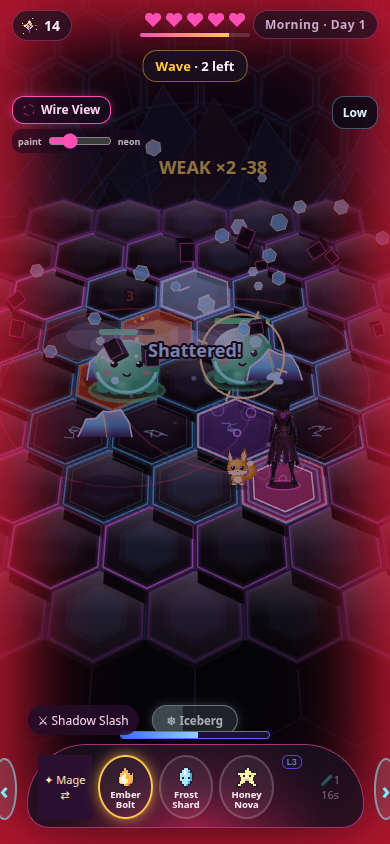
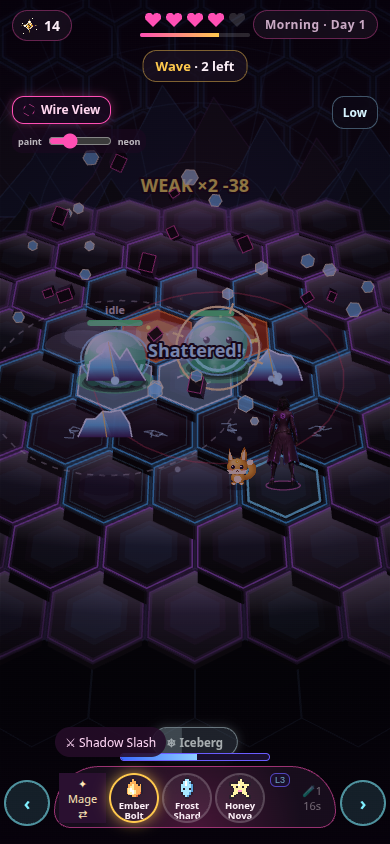
Keep dummy names beside the posts and the cast line off the ring
Wide screens stack each dummy's name and hit points beside the targets, off the rings, the banner, and the avatar. Portrait dodge chevrons stay on screen. The landscape cast line sits left of the decorative spell ring. A bullet line stays the gun telegraph and the player's aim, and the cell stays a reload cartridge.

diff --git a/v7/index.html b/v7/index.html
@@ -102,10 +102,10 @@ input[type=range]{accent-color:var(--pink);width:120px}
 #wheel{position:fixed;left:0;right:0;bottom:calc(16px + var(--sab));z-index:9;display:flex;justify-content:center;align-items:flex-end;gap:10px;pointer-events:none;transform:translateY(160px);transition:transform .45s cubic-bezier(.3,1.3,.5,1)}
 #wheel.on{transform:translateY(0)}
 #wheel>*{pointer-events:auto}
-.dodge{width:62px;height:62px;border-radius:50%;background:rgba(127,240,255,.12);border:2px solid rgba(127,240,255,.55);font-size:24px;font-weight:900;color:var(--cyan);margin-bottom:8px}
+.dodge{width:62px;height:62px;flex:none;border-radius:50%;background:rgba(127,240,255,.12);border:2px solid rgba(127,240,255,.55);font-size:24px;font-weight:900;color:var(--cyan);margin-bottom:8px}
 .dodge:active{background:rgba(127,240,255,.35)}
 #spells{display:flex;gap:6px;background:radial-gradient(circle at 50% 100%,rgba(255,79,180,.25),rgba(26,15,31,.85) 70%);border:1.5px solid rgba(255,79,180,.55);border-radius:60px 60px 22px 22px;padding:10px 10px 8px}
-.sp{position:relative;width:64px;height:64px;border-radius:50%;background:rgba(255,255,255,.06);border:2px solid rgba(255,255,255,.18);overflow:hidden;display:flex;flex-direction:column;align-items:center;justify-content:center;font-size:9.5px;font-weight:900;line-height:1.05}
+.sp{position:relative;width:64px;height:64px;flex:none;border-radius:50%;background:rgba(255,255,255,.06);border:2px solid rgba(255,255,255,.18);overflow:hidden;display:flex;flex-direction:column;align-items:center;justify-content:center;font-size:9.5px;font-weight:900;line-height:1.05}
 .sp img{width:26px;height:26px;image-rendering:pixelated;position:relative;z-index:1}
 .sp span{position:relative;z-index:1}
 .sp.on{border-color:var(--gold);box-shadow:0 0 14px rgba(255,201,77,.7)}
@@ -127,7 +127,14 @@ input[type=range]{accent-color:var(--pink);width:120px}
 #trainHud button.gold{background:linear-gradient(180deg,#ffd978,#f0a92e);color:#3a1d05;border:0}
 #trainHud button.on{background:#ff4fb4;border-color:#ff9ad2;color:#fff}
 #trainHelpBtn{flex:none !important;padding:7px 10px !important;font-size:12px !important;pointer-events:auto}
-#castFeed{position:fixed;left:10px;right:auto;transform:none;top:calc(258px + var(--sat));bottom:auto;z-index:14;max-width:68vw;pointer-events:none;background:rgba(12,6,16,.92);border:1px solid rgba(255,201,77,.75);border-radius:12px;padding:6px 12px;font-weight:900;font-size:14px;white-space:nowrap}
+#castFeed{position:fixed;left:10px;right:auto;transform:none;top:calc(258px + var(--sat));bottom:auto;z-index:14;max-width:68vw;pointer-events:none;background:rgba(12,6,16,.92);border:1px solid rgba(255,201,77,.75);border-radius:12px;padding:6px 12px;font-weight:900;font-size:14px;white-space:nowrap;overflow:hidden;text-overflow:ellipsis}
+@media (max-width:430px){
+  #wheel{gap:4px;padding:0 4px}
+  .dodge{width:46px;height:46px;font-size:18px;margin-bottom:2px}
+  #spells{gap:3px;padding:6px 4px 4px}
+  .sp{width:50px;height:50px}
+  #clsBtn,#wallLv,#manaPot{font-size:10px;padding:2px 4px}
+}
 @media (max-height:640px) and (max-width:500px){
   #trainHud .note{display:none}
   #trainHud{gap:3px}
@@ -144,7 +151,7 @@ input[type=range]{accent-color:var(--pink);width:120px}
   #trainHud{left:8px;top:44px;width:232px;gap:3px}
   #trainHud .note{display:none}
   #trainHud button{padding:4px 5px;font-size:11px;white-space:nowrap;line-height:1.15}
-  #castFeed{left:auto;right:8px;top:122px;bottom:auto;transform:none;max-width:34vw;font-size:12px;z-index:16}
+  #castFeed{left:8px;right:auto;top:132px;bottom:auto;transform:none;width:224px;max-width:224px;font-size:12px;line-height:1.25;white-space:normal;text-align:left;z-index:16}
   #wheel{gap:6px}
   .dodge{width:48px;height:48px;font-size:18px;margin-bottom:4px}
   .sp{width:52px;height:52px}
@@ -2462,7 +2469,8 @@ function hurtP(n, tick) {
   if (G.hp <= 0) { G.hp = G.maxHp; rewind(); }
 }
 
-/* ---------- GGO bullet lines (ranged gunners) ---------- */
+/* ---------- Bullet lines: an incoming gun telegraph to dodge, and the player's own aim shot.
+   Not the item line and not a reload cartridge. ---------- */
 function addLine(o = {}) {
   const l = { mob: o.mob || null, t: -(o.delay || 0), warn: (o.warn || 1.1) * PACE(), aimed: false, fired: false, ft: 0, x0: o.x0, y0: o.y0, dmg: (o.dmg || 18) * (SET.cozy ? .6 : 1) };
   AR.lines.push(l); return l;
@@ -4731,20 +4739,81 @@ function drawDummy(m) {
   if (m.fl > 0) { ctx.globalCompositeOperation = 'lighter'; ctx.fillStyle = 'rgba(255,255,255,.75)'; ctx.beginPath(); ctx.arc(X, Y - s * 1.15, s * 0.66, 0, TAU); ctx.fill(); }
   ctx.restore();
   const w = Math.max(46, 54 * Math.min(f, 1.4)), k = clamp(m.hp / m.max, 0, 1);
-  const barY = clamp(Y - Math.min(s * 2.05, 36), 118, H - 210);
+  const wide = W >= 560 && H < 520;
+  const topLimit = wide ? 96 : 256;
+  const botLimit = Math.max(topLimit + 18, H - (wide ? 156 : 188));
+  const barY = clamp(Y - Math.min(s * 2.05, 36), topLimit, botLimit);
   const barX = clamp(X, 28, W - 28);
   ctx.fillStyle = 'rgba(16,6,20,.92)'; rrect(ctx, barX - w / 2, barY, w, 7, 3); ctx.fill();
   ctx.fillStyle = k > 0.35 ? '#ffd36a' : '#ff4a55'; rrect(ctx, barX - w / 2, barY, w * k, 7, 3); ctx.fill();
   const label = m.D.n + '  ' + Math.ceil(m.hp);
   ctx.font = '800 13px ui-rounded,system-ui';
   const tw = ctx.measureText(label).width;
-  let lx = clamp(barX, 8 + tw / 2, W - 8 - tw / 2);
-  let ly = barY - 6;
-  for (const b of TRAIN.labels) {
-    if (Math.abs(b.x - lx) < (b.w + tw) / 2 + 6 && Math.abs(b.y - ly) < 16) ly = b.y - 16;
+  const th = 16;
+  const over = (x, y, L, T, R, B) => {
+    const left = x - tw / 2, right = x + tw / 2, top = y - 14, bot = y + 4;
+    return right > L && left < R && bot > T && top < B;
+  };
+  const hitsHud = (x, y) => wide && (over(x, y, 4, 40, 248, 130) || over(x, y, 4, 128, 240, 210) || over(x, y, W - 100, 36, W - 2, 165));
+  const pinch = (v, a, b) => Math.max(a, Math.min(b, v));
+  const hitsPost = (x, y) => AR.mobs.some(o => {
+    if (!o.dummy || o.state === 'gone') return false;
+    const [ox, oy, of] = proj(AR.cam, o.x, o.y), os = 36 * of;
+    const rx = ox, ry = oy - os * 1.15, rr = os * 0.68;
+    const left = x - tw / 2, right = x + tw / 2, top = y - 14, bot = y + 4;
+    const qx = pinch(rx, left, right), qy = pinch(ry, top, bot);
+    if ((qx - rx) ** 2 + (qy - ry) ** 2 < rr * rr) return true;
+    return over(x, y, ox - 8, ry, ox + 8, oy + 2);
+  });
+  const [ax, ay, af] = proj(AR.cam, AR.ppx, AR.ppy);
+  const aH = 1.25 * AR.cam.hz * af * 1.4;
+  const hitsBody = (x, y) => over(x, y, ax - aH * 0.42, ay - aH - 34, ax + aH * 0.42, ay + 4);
+  const objEl = document.getElementById('obj');
+  let hitsBanner = () => false;
+  if (objEl && !objEl.classList.contains('hide')) {
+    const r = objEl.getBoundingClientRect();
+    hitsBanner = (x, y) => over(x, y, r.left - 6, r.top - 2, r.right + 6, r.bottom + 4);
   }
-  ly = clamp(ly, 252, H - 210);
-  TRAIN.labels.push({ x: lx, y: ly, w: tw });
+  const feedEl = document.getElementById('castFeed');
+  let hitsFeed = () => false;
+  if (feedEl && !feedEl.classList.contains('hide')) {
+    const r = feedEl.getBoundingClientRect();
+    hitsFeed = (x, y) => over(x, y, r.left - 4, r.top - 2, r.right + 4, r.bottom + 4);
+  }
+  const crowded = (x, y) => TRAIN.labels.some(b => Math.abs(b.x - x) < (b.w + tw) / 2 + 8 && Math.abs(b.y - y) < th + 6);
+  const clear = (x, y) => !hitsHud(x, y) && !hitsBanner(x, y) && !hitsFeed(x, y) && !hitsBody(x, y) && !hitsPost(x, y) && !crowded(x, y);
+  const clampX = x => clamp(x, 8 + tw / 2, W - 8 - tw / 2);
+  const clampY = y => clamp(y, topLimit + th, botLimit);
+  let lx, ly;
+  if (wide) {
+    let rightEdge = X, leftEdge = X, topY = Y - s * 1.15;
+    for (const o of AR.mobs) {
+      if (!o.dummy || o.state === 'gone') continue;
+      const [ox, oy, of] = proj(AR.cam, o.x, o.y), os = 36 * of;
+      rightEdge = Math.max(rightEdge, ox + os * 0.72);
+      leftEdge = Math.min(leftEdge, ox - os * 0.72);
+      topY = Math.min(topY, oy - os * 1.35);
+    }
+    const row = TRAIN.labels.length, step = th + 8;
+    const rightX = clampX(rightEdge + tw / 2 + 12), leftX = clampX(leftEdge - tw / 2 - 12);
+    const y0 = clampY(topY);
+    lx = rightX; ly = clampY(y0 + row * step);
+    const spots = [];
+    for (let i = 0; i < 4; i++) spots.push([rightX, y0 + (row + i) * step], [leftX, y0 + (row + i) * step]);
+    for (const [sx, sy] of spots) {
+      const nx = clampX(sx), ny = clampY(sy);
+      if (clear(nx, ny)) { lx = nx; ly = ny; break; }
+    }
+  } else {
+    const aside = s * 1.6 + tw / 2 + 16;
+    lx = clampX(barX + aside); ly = clampY(barY - 8);
+    const shifts = [[0, 0], [-aside * 2, 0], [0, -(th + 10)], [0, 110], [-aside, 110], [aside * 0.15, 0]];
+    for (const [dx, dy] of shifts) {
+      const nx = clampX(barX + aside + dx), ny = clampY(barY - 8 + dy);
+      if (!hitsHud(nx, ny) && !hitsFeed(nx, ny) && !hitsBody(nx, ny) && !hitsBanner(nx, ny) && !hitsPost(nx, ny) && !crowded(nx, ny)) { lx = nx; ly = ny; break; }
+    }
+  }
+  TRAIN.labels.push({ x: lx, y: ly, w: tw, h: th, n: m.D.n });
   ctx.fillStyle = 'rgba(12,6,16,.88)'; rrect(ctx, lx - tw / 2 - 5, ly - 13, tw + 10, 16, 6); ctx.fill();
   ctx.textAlign = 'center'; ctx.fillStyle = '#fff6d4'; ctx.fillText(label, lx, ly);
   ctx.textAlign = 'left';
@@ -5479,8 +5548,8 @@ document.getElementById('navDome').addEventListener('click', () => goPlace(DOME.
 document.getElementById('navPond').addEventListener('click', () => goPlace(POI.q, POI.r));
 document.getElementById('navCmd').addEventListener('click', () => openCommand());
 document.getElementById('trainReset').addEventListener('click', e => { e.stopPropagation(); resetTrain(); });
-// Training drill only. Not the spell wheel and not the potion menu.
-// loadCell, startCellBolt, kickCell, cancelCell, and spendCell are the calls a later item queue can use.
+// Training drill only. The cell is a reload cartridge, not a capture and not a bullet line.
+// loadCell, startCellBolt, kickCell, cancelCell, and spendCell feed the ordered item line on the command board.
 document.getElementById('cellBtn').addEventListener('click', e => { e.stopPropagation(); cellPress(); });
 document.getElementById('itemReach').addEventListener('click', e => { e.stopPropagation(); if (itemSend()) { closeModal('cmdM'); showCast('At reach · ' + REACH.kind + ' · not tracked'); } });
 document.getElementById('itemBoard').addEventListener('click', e => { e.stopPropagation(); if (TRAIN.on) openCommand(); });
@@ -5719,6 +5788,11 @@ window.__train = {
   ITEM_LINE, REACH, itemReset, itemFront, itemSend, itemPop,
   markDirty: () => { groundDirty = true; },
   yardStage, yardAiming, yardPreviewHexes, yardFloorInfo,
+  playerMark: () => { const [x, y, f] = proj(AR.cam, AR.ppx, AR.ppy); return { x, y, h: 1.25 * AR.cam.hz * f * 1.4 }; },
+  dummyMarks: () => AR.mobs.filter(m => m.dummy && m.state !== 'gone').map(m => {
+    const [x, y, f] = proj(AR.cam, m.x, m.y), s = 36 * f;
+    return { n: m.D.n, x, y: y - s * 1.15, r: s * 0.66, foot: y };
+  }),
 };
 window.__look = { validateLookCatalog, readLookCatalog, LOOK, get catalog() { return LOOKS; }, heavyRef, saveLook };
 

diff --git a/v7/HANDOFF.md b/v7/HANDOFF.md
@@ -8,7 +8,7 @@ Live `/v7/` on main is unchanged. Nothing here was merged or deployed.
 
 ## Training yard ground (unpublished test)
 
-The training yard, not the map and not a map raid, draws one continuous stone floor. The plates overlap so the idle gaps close, and cracks, pebbles, and a few wet marks stay on that stone. Landscape and far tiles use fewer marks. Wide short screens pack the yard buttons into a left rail and a right stack so the cast line is not sitting on the dodge. The hex grid underneath is the same one. While a cast is aimed, the selected hex and the cells that spell will hit light up before release. The standing hex, danger zones, and live field colors stay visible. A slash still cuts one hex at a time. Each risen cut shows its own lit interior, and fire or ice on that hex is the real field state. A negative hex index in the gully rubble used to throw and stop the rest of the cut from drawing; that index now wraps. Step, lava, ice, mob block, timer, and reset rules are unchanged. This was checked in Chrome on the desktop, not on a phone.
+The training yard, not the map and not a map raid, draws one continuous stone floor. The plates overlap so the idle gaps close, and cracks, pebbles, and a few wet marks stay on that stone. Landscape and far tiles use fewer marks. Wide short screens pack the yard buttons into a left rail and a right stack. The cast line sits left of the spell ring, not on it and not on the dodge. Dummy names keep their hit points. On a wide short screen they stack beside the posts, off the rings, the round banner, and the avatar. Portrait dodge buttons stay fully on screen. A bullet line is an incoming gun telegraph or the player's aim shot, not the item line. The cell drill is a reload cartridge, not a capture. The hex grid underneath is the same one. While a cast is aimed, the selected hex and the cells that spell will hit light up before release. The standing hex, danger zones, and live field colors stay visible. A slash still cuts one hex at a time. Each risen cut shows its own lit interior, and fire or ice on that hex is the real field state. A negative hex index in the gully rubble used to throw and stop the rest of the cut from drawing; that index now wraps. Step, lava, ice, mob block, timer, and reset rules are unchanged. This was checked in Chrome on the desktop, not on a phone.
 
 ## Casting disc in first person
 
